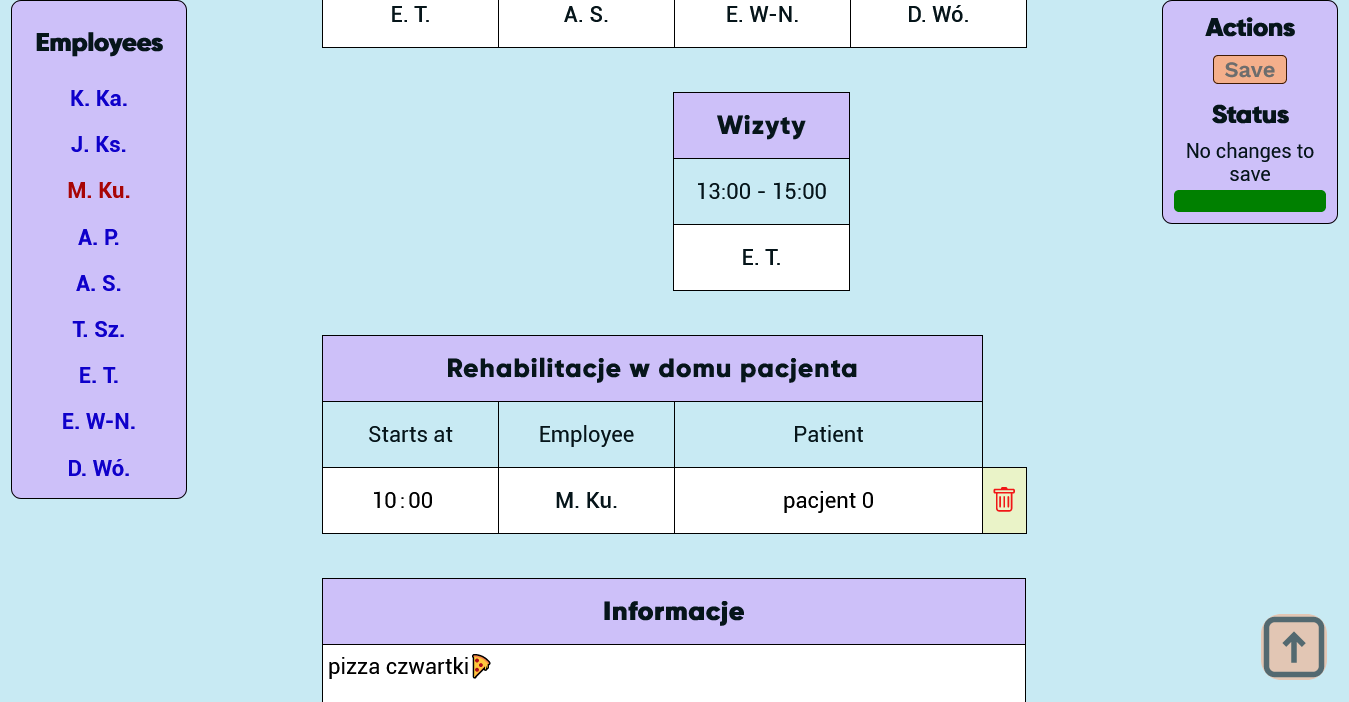
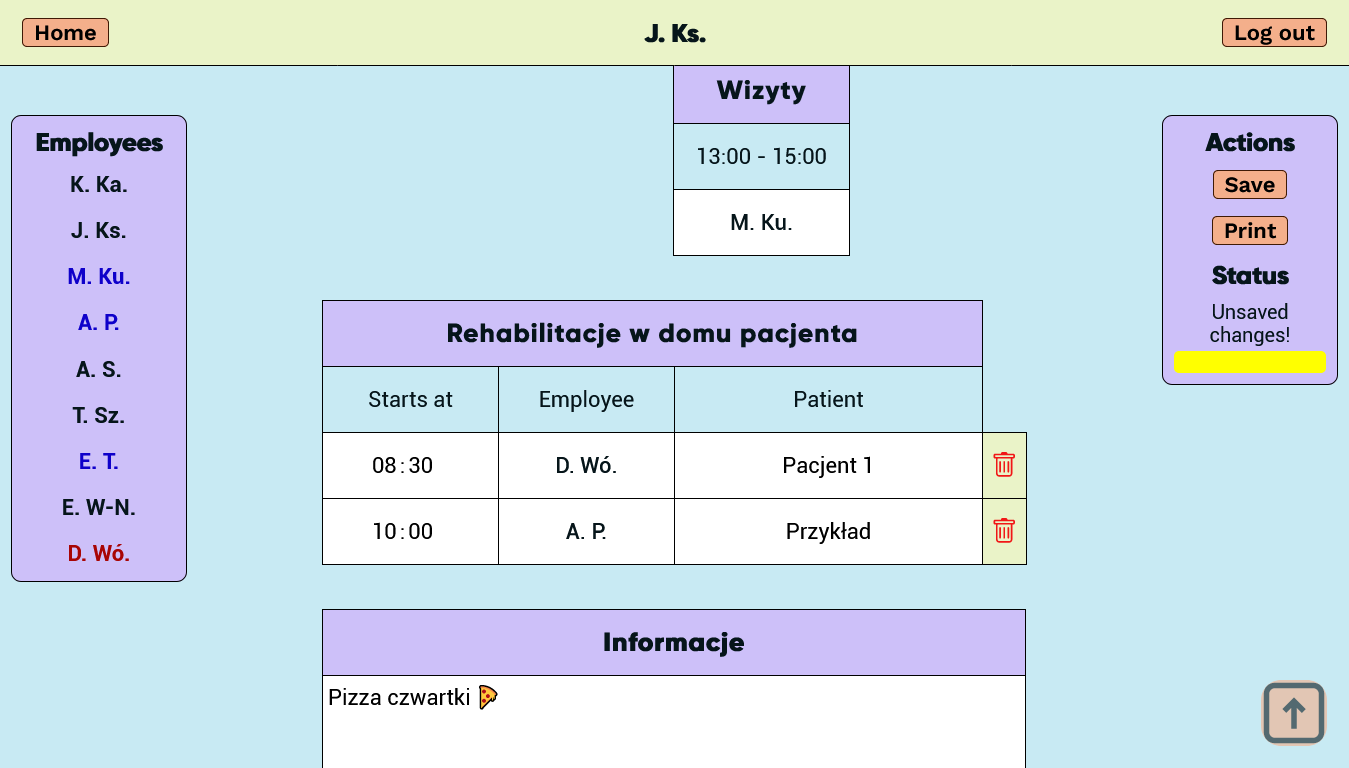
Improved styles, edited readme

diff --git a/src/components/landingPage/LoginPanel.tsx b/src/components/landingPage/LoginPanel.tsx
@@ -18,8 +18,8 @@ export const LoginPanel: React.FunctionComponent<Props> = (props) => {
 		<CgSpinner
 			className="spin"
 			style={{
-				fontSize: '1.7rem',
-				height: '41px',
+				fontSize: '1.8rem',
+				height: 35,
 				margin: 'auto',
 				display: 'block',
 			}}
@@ -35,7 +35,7 @@ export const LoginPanel: React.FunctionComponent<Props> = (props) => {
 			</Link>
 
 			<div className="login-form-content">
-				<label className="label-login-panel">Last name</label>
+				<label className="label-login-panel">Login</label>
 				<input
 					required
 					max={20}
@@ -45,7 +45,7 @@ export const LoginPanel: React.FunctionComponent<Props> = (props) => {
 					type="text"
 					maxLength={30}
 				></input>
-				<label className="label-login-panel">Password</label>
+				<label className="label-login-panel">Hasło</label>
 				<input
 					required
 					max={20}
@@ -59,7 +59,7 @@ export const LoginPanel: React.FunctionComponent<Props> = (props) => {
 					loading
 				) : (
 					<button type="submit" className="button-generic button-submit-login">
-						Log in
+						Zaloguj sie
 					</button>
 				)}
 			</div>

diff --git a/src/components/landingPage/LandingPage.tsx b/src/components/landingPage/LandingPage.tsx
@@ -55,10 +55,12 @@ export const LandingPage: React.FunctionComponent<RouteComponentProps> = ({
 				<h3 className="header-landing-page-secoundary">
 					Przestrzeń w sieci dla najlepszej grupy fizjoterapeutów w Świdnicy
 				</h3>
-				<Link to={isLoginPanelOn ? '/' : '/login'}>
-					<button className="button-generic button-start">Zaloguj się</button>
-				</Link>
 			</header>
+			<div className="container-button-login">
+				<Link to={isLoginPanelOn ? '/' : '/login'}>
+					<button className="button-generic button-login">Start</button>
+				</Link>
+			</div>
 			<img alt="Schedule Calendar" src={LandingImage} />
 			<Switch>
 				<Route exact path={'/login'}>

diff --git a/src/components/landingPage/LandingPage.css b/src/components/landingPage/LandingPage.css
@@ -26,16 +26,21 @@
 	top: 15vh;
 	left: 58%;
 }
-.button-start {
-	margin: auto;
+.button-login {
 	padding: 1px 0.6rem;
 	display: block;
-	margin-top: 2.5rem;
 	background-color: hsl(21, 83%, 65%);
-	font-size: 2rem;
+	font-size: 2.2rem;
 	transition: background-color 0.15s ease-in;
 }
-.button-start:hover {
+.button-login:hover {
 	background-color: var(--backgroundOrange);
 	transform: none;
+}
+.container-button-login {
+	width: 60%;
+	margin-left: 2rem;
+	margin-top: 2.5rem;
+	display: flex;
+	justify-content: center;
 }

diff --git a/src/components/landingPage/LoginPanel.css b/src/components/landingPage/LoginPanel.css
@@ -6,7 +6,6 @@
 	left: 50%;
 	padding: 1rem;
 	transform: translate(-50%, -50%);
-	/* height: 230px; */
 	width: 400px;
 	border: 5px solid var(--backgroundViolet);
 }
@@ -39,8 +38,7 @@
 	cursor: pointer;
 }
 .button-submit-login {
-	font-size: 1.5rem;
-	padding: 0 1rem;
+	font-size: 1.2rem;
 	margin: auto;
 	display: block;
 }

diff --git a/src/WinBox/winboxMessages.ts b/src/WinBox/winboxMessages.ts
@@ -30,7 +30,7 @@ export const createdMessage = () => {
 	const config = {
 		...genericSettings,
 		background: '#d2e589',
-		right: 17,
+		right: 17, // 17 - scrollbar width
 		y: 170,
 		html: `<h2>👍</h2>`,
 	};

diff --git a/src/components/app/App.css b/src/components/app/App.css
@@ -38,7 +38,7 @@ aside {
 	height: max-content;
 	width: 8rem;
 	position: sticky;
-	top: 3rem;
+	top: 15vh;
 	padding: 0.5rem;
 	border: 1px solid black;
 	border-radius: 10px;

diff --git a/README.md b/README.md
@@ -48,7 +48,7 @@ Only logged users are allowed to enter the service. An account has been created 
 
 ### Schedules
 
-This view consist of three parts: schedules, divided to four stations, a home rehabilitations view and a comment section. While normal employee can only view it, manager can modify the content. Employees can be moved by drag&drop system.
+This view consist of three parts: schedules, divided to four stations, a home rehabilitations view and a comment section. While normal employee can only view it, manager can modify the content. Employees can be moved by drag&drop system. Full daily plan can be converted to .pdf and printed.
 
 ![Schedules](./previewImages/schedulesView.png)
 
